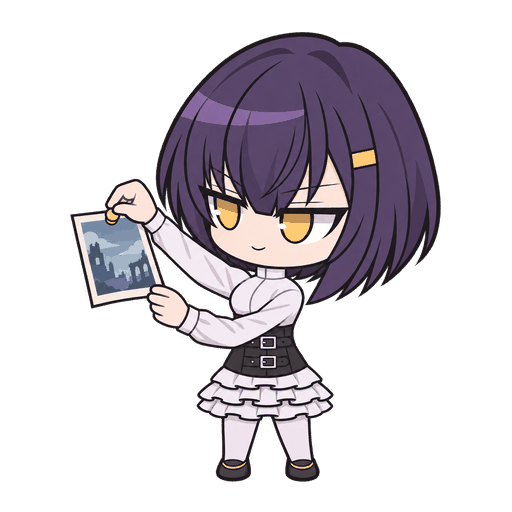
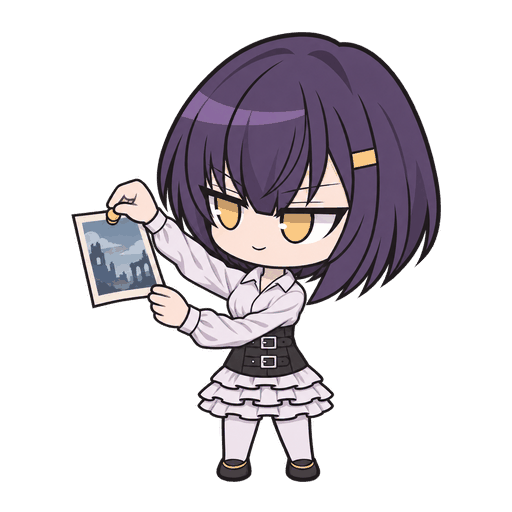
fix(art): 재조사 그웬 — 칼라 살짝 풀고 블라우스 여유

diff --git a/tools/gwen_art/README.md b/tools/gwen_art/README.md
@@ -2,15 +2,15 @@
 
 ## 재조사 사무실용 — 코트 벗은 SD 3종
 
-2026-11-23 내장 image_gen으로 `recon_look`(왼쪽 돋보기 관찰), `recon_pin`(왼쪽 위 사진 고정), `recon_nod`(팔짱·자신만만한 끄덕임) 정지 자세를 만들었음. PM 검수에 따라 세 원본을 국소 편집해 치마 옆·뒤의 파란 코트 자락과 금색/검은 줄, 청록 허리띠·큰 리본, 가슴 타이·자보를 제거했음. 장식 없는 흰 스탠드 칼라·손목 커프스가 있는 긴소매·맨손·흰 프릴 치마에, 은색 사각 버클 가로 벨트 두 줄이 달린 무광 검은 언더버스트 코르셋을 맞췄음. 얼굴·머리·자세·소품·스타킹·신발은 유지했음. 전연령·문자 없음·실제 투명 RGBA임.
+2026-11-23 내장 image_gen으로 `recon_look`(왼쪽 돋보기 관찰), `recon_pin`(왼쪽 위 사진 고정), `recon_nod`(팔짱·자신만만한 끄덕임) 정지 자세를 만들었음. 코트 자락·청록 띠/리본·타이/자보를 제거한 뒤, PM 검수에 따라 상반신 흰 블라우스만 다시 국소 편집했음. 높은 스탠드 칼라를 맨 윗단추 하나 푼 접힌 셔츠 칼라로 바꾸고, 목 아래만 조금 보이는 얕은 트임과 소매·몸통의 여유 및 부드러운 주름을 넣었음. 손목 커프스가 있는 긴소매·맨손·흰 프릴 치마·은색 사각 버클 가로 벨트 두 줄의 무광 검은 언더버스트 코르셋·얼굴·머리·자세·소품·스타킹·신발은 유지했음. 전연령·문자 없음·실제 투명 RGBA임.
 
-최초 생성은 look 2회(시선 방향 보정 1회), pin·nod 각 1회로 총 4회였음. 이번 국소 편집은 각 1회, 총 3회·재시도 0회임. 이전 원본은 저장소 밖 `recon/gwen/recon_*_v1.png`, 수정본은 같은 폴더의 `recon_*.png`에 확대 없이 보관했음. 전체 호출 프롬프트·참조·선정 결과와 수정 이력은 [prompts_recon.json](prompts_recon.json)에 있음.
+최초 생성은 look 2회(시선 방향 보정 1회), pin·nod 각 1회로 총 4회였음. 코르셋 교체는 총 3회·재시도 0회, 이번 칼라·블라우스 국소 편집도 각 1회로 총 3회·재시도 0회임. 이전 원본은 저장소 밖 `recon/gwen/recon_*_v2.png`로 보관했으며 최초 의상은 `_v1.png`에 남아 있음. 수정본은 같은 폴더의 `recon_*.png`에 확대 없이 보관했음. 전체 호출 프롬프트·참조·선정 결과와 수정 이력은 [prompts_recon.json](prompts_recon.json)에 있음.
 
 `python -B -X utf8 tools/gwen_art/build_recon.py --import-dir <원본 PNG 폴더>`로 최초 가져오고, 이후에는 옵션 없이 커밋된 512px 파일에서 재현함. ready와 같은 알파 정리(10 미만 0·245 초과 255), 가장자리 중간 알파 보존, 450px 이내 축소·512px 캔버스·발끝 y482·192색 본체/64색 가장자리 팔레트를 썼음. 160px PNG는 기존 정지본 방식으로 색을 줄이고 알파를 보존했음.
 
-출력은 `assets/ui_icons/gwen/recon_look_512.png`·`recon_look.png`, `recon_pin_512.png`·`recon_pin.png`, `recon_nod_512.png`·`recon_nod.png` 6개임. 각각 512×512와 160×160, 합계 242,826바이트(160px 3개 51,655바이트)이며 파일당 80,000바이트 안에 있음. 빌더에서 크기·투명도·가장자리·여백·기존 전체 용량 한도를 검사함. **화면 연결·애니메이션은 추가하지 않았음.**
+출력은 `assets/ui_icons/gwen/recon_look_512.png`·`recon_look.png`, `recon_pin_512.png`·`recon_pin.png`, `recon_nod_512.png`·`recon_nod.png` 6개임. 각각 512×512와 160×160, 합계 247,226바이트(160px 3개 53,796바이트)이며 파일당 80,000바이트 안에 있음. 빌더에서 크기·투명도·가장자리·여백·기존 전체 용량 한도를 검사함. **화면 연결·애니메이션은 추가하지 않았음.**
 
-보관 폴더의 `recon/with_gwen_office.png`는 사무실 위에 각 동작을 한 번씩 얹은 3행 정지 합성임. `recon/gwen/alpha_style_review.png`에서 기존 investigate와 같은 크기의 선·색·비율, 체커보드 알파와 어두운 배경의 실제 160px 정지본을 검수했음.
+보관 폴더의 `recon/gwen/with_gwen_office.png`는 사무실 위에 각 동작을 한 번씩 얹은 3행 정지 합성임. 이번 쓰기 허용 범위에 맞춰 `gwen/` 아래에 재생성했음. `recon/gwen/alpha_style_review.png`에서 기존 investigate와 같은 크기의 선·색·비율, 체커보드 알파와 어두운 배경의 실제 160px 정지본을 검수했음.
 
 검증: `python -X utf8 -I tools/run_tests.py forced gwen` 16통과·0실패. 옵션 없는 재빌드 전후 6파일 SHA-256이 같고, 호출 수·선정본·프롬프트의 로컬 절대 경로 부재를 확인했음.
 

diff --git a/docs/HISTORY.md b/docs/HISTORY.md
@@ -1,3 +1,12 @@
+## 2026-11-23 — 재조사 그웬 칼라·블라우스 여유
+
+- `8a6216d`의 재조사 SD 3종을 내장 image_gen으로 각 1회 국소 편집했음(총 3회·재시도 0회). 목을 조이는 높은 칼라를 접힌 셔츠 칼라로 바꾸고 맨 윗단추 하나를 풀었음. 작은 목 트임과 소매·몸통의 부드러운 주름으로 여유를 줬음.
+- 긴소매·손목 커프스·맨손·검은 언더버스트 코르셋의 은색 버클 두 줄·흰 프릴 치마·얼굴·머리·자세·소품·스타킹·신발·투명 배경을 유지했음. 직전 원본은 저장소 밖 `recon/gwen/recon_*_v2.png`로 보존했음.
+- `build_recon.py`로 512px·160px PNG 6개를 갱신했음. 크기·알파·여백·용량 검사를 통과했고 옵션 없는 재빌드 전후 6개 해시가 같았음. 전체 프롬프트·원본 및 출력 해시는 `tools/gwen_art/prompts_recon.json`에 기록했으며 로컬 절대 경로가 없음을 검사했음.
+- 쓰기 허용 범위에 맞춰 미리보기는 저장소 밖 `recon/gwen/with_gwen_office.png`에 다시 만들었음. 같은 폴더의 `alpha_style_review.png`로 체커보드와 어두운 배경의 실제 160px 표시를 검수했음. 화면 로직·연결은 변경하지 않았음.
+- 전체 기준선 273통과·0실패·환경 자료 검사 6건 건너뜀, 갱신 후 `python -X utf8 -I tools/run_tests.py forced gwen` 16통과·0실패였음. 기존 아트를 재생성하는 시험이 끝난 뒤 재조사 빌더를 실행해 동시 쓰기를 피했음.
+- 브랜치 추적 원격 부재로 pull하지 못했고, static-data는 지정 폴더 밖 쓰기 금지 범위라 갱신하지 않았음.
+
 ## 2026-11-23 — 강제 탐색 하늘: 깨지는 빛의 궤적
 
 - `c37b5f1` 배경의 두꺼운 금속 고리만 내장 image_gen 1회·재시도 0회로 가는 금백색 궤적 여러 가닥으로 바꿨음. 초기 임시 `before/scene.webp`의 혜성 꼬리 같은 빛·끝의 별빛을 참조했고, 행성 없이 끊기는 빛 조각·붉은 보라 공허·유리 같은 균열을 유지했음.

diff --git a/HANDOFF.md b/HANDOFF.md
@@ -4,7 +4,7 @@
 
 ## 현재 상태
 
-- **재조사용 SD 그웬 준비**: `recon_look`·`recon_pin`·`recon_nod`의 코트 자락·청록 띠/리본·타이/자보를 제거하고, 흰 스탠드 칼라·긴소매·맨손·은색 사각 버클 두 줄의 검은 언더버스트 코르셋으로 고쳤음. 512px PNG·160px 정지본 6개의 배경 합성·알파를 검수했고 화면 연결은 하지 않았음. 재현 빌더·전체 프롬프트·용량은 `tools/gwen_art/README.md`의 재조사 절을 참조함.
+- **재조사용 SD 그웬 준비**: `recon_look`·`recon_pin`·`recon_nod`의 흰 블라우스를 맨 윗단추 하나 푼 접힌 셔츠 칼라와 소매·몸통에 부드러운 주름이 있는 여유로운 핏으로 고쳤음. 긴소매·손목 커프스·맨손·은색 사각 버클 두 줄의 검은 언더버스트 코르셋·흰 프릴 치마를 유지했음. 512px PNG·160px 정지본 6개의 배경 합성·알파를 검수했고 화면 연결은 하지 않았음. 재현 빌더·전체 프롬프트·용량은 `tools/gwen_art/README.md`의 재조사 절을 참조함.
 
 - **재조사 배경 준비**: PM 검수에 따라 그웬 SD 화풍의 셀 선화로 바꾸고 장식·광택을 줄였음. 단일 스탠드 광원·회수 증거 4자료·사진을 떼어 낸 흔적 4곳을 넣었음. 원본은 2172×724 그대로 보관했고 비교·그웬 합성을 검수했음. 현재 좌표·크롭 한계는 `docs/forced_art.md`, 호출 기록은 `tools/recon_art_prompts.json`이 정본임. 원본·미리보기는 `recon` 보관 폴더에 있으며 배포용 자산·화면 연결은 미구현임.
 
